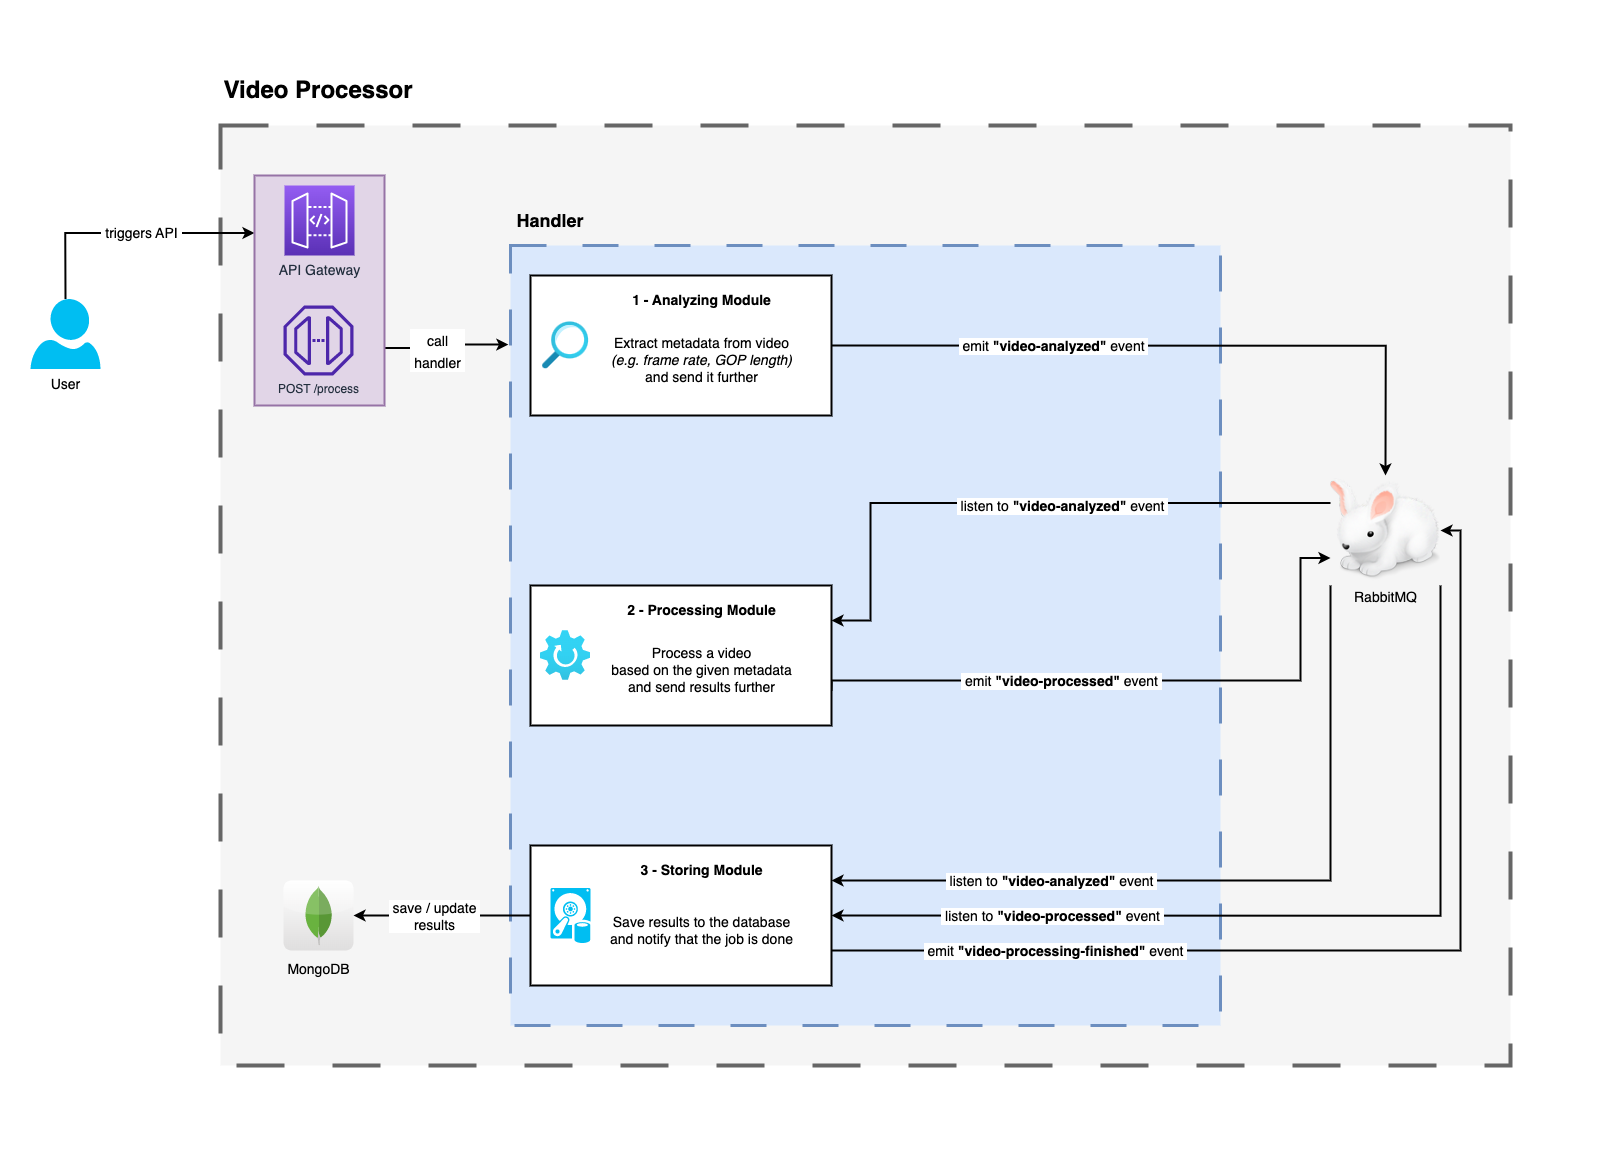
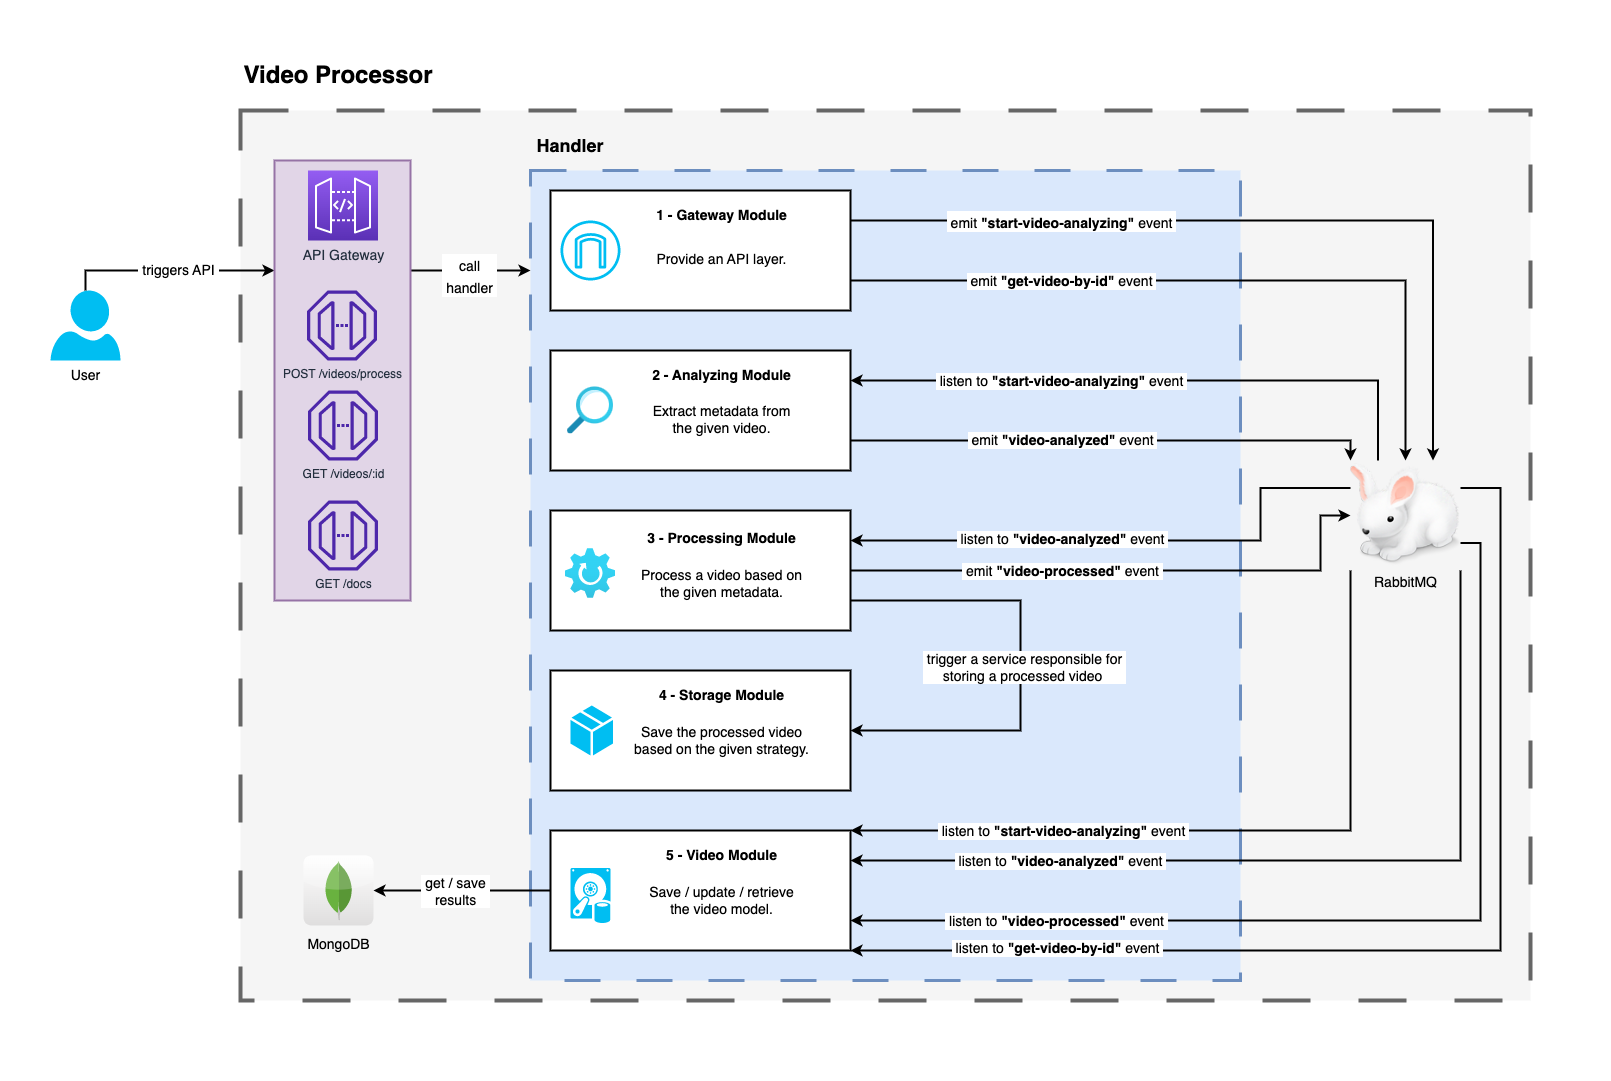
feat: update docs

diff --git a/README.md b/README.md
@@ -6,6 +6,9 @@ A simple video project created to refresh skills in Nest.js, RabbitMQ, and Mongo
 
 - [Description](#description)
 - [Usage](#usage)
+    - [Prerequisites](#prerequisites)
+    - [Running the application](#running)
+    - [Tests](#tests)
 - [Architecture](#architecture)
     - [C1 - Context](#context)
     - [C2 - Container](#container)
@@ -16,15 +19,43 @@ A simple video project created to refresh skills in Nest.js, RabbitMQ, and Mongo
 
 This API should be able to perform a basic processing of a given video.
 Firstly, all necessary metadata should be extracted from this video.
-Then, some parameters used for processing should be generated and passed further.
-Eventually, based on the metadata and transcoding parameters, video should be processed.
-The results should be saved in a database.
+Then, based on the metadata a video should be processed.
+Eventually, the processed video should be saved based on a configured strategy (e.g. locally).
+Finally, the database should contain information about processing status and video data.
 
 <p align="right">(<a href="#top">back to top</a>)</p>
 
 ## Usage <a id="usage"></a>
 
-Run the following script to start the application:
+### Prerequisites <a id="prerequisites"></a>
+
+Before using the app you need make sure you have installed FFmpeg on your machine:
+
+```
+brew install ffmpeg
+```
+
+Also, make sure you have installed [Docker](https://www.docker.com/products/docker-desktop/).
+
+<p align="right">(<a href="#top">back to top</a>)</p>
+
+### Running the application <a id="running"></a>
+
+To start the application:
+
+1. Run docker in the project's root directory
+
+```
+docker-compose up
+```
+
+2. Install dependencies:
+
+```
+npm i --legacy-peer-deps
+```
+
+3. Start the app:
 
 ```
 npm start
@@ -32,9 +63,15 @@ npm start
 
 Here's a list of supported endpoints:
 
-- #### POST _/videos/process_
-- #### GET _/videos/:id_
-- #### GET _/docs_
+| Method | URI               | Description                       |
+|--------|-------------------|-----------------------------------|
+| POST   | _/videos/process_ | inits video processing            |
+| GET    | _/videos/:id_     | retrieves video with the given id |
+| GET    | _/docs_           | shows OpenAPI documentation       |
+
+<p align="right">(<a href="#top">back to top</a>)</p>
+
+### Tests <a id="tests"></a>
 
 Tests can be run via the following script:
 
@@ -67,7 +104,7 @@ but it can be easily replaced with another event.
 After a handler is called, RabbitMQ topics are used to orchestrate its work.
 Thanks to them, we are able to create a modular structure
 (which is going to be described in the next section)
-and react on some topic in order to save or update results in MongoDB.
+and react on some topics in order to save or update results in MongoDB.
 
 <img src="./docs/architecture/C2.png" alt="C2">
 
@@ -75,27 +112,39 @@ and react on some topic in order to save or update results in MongoDB.
 
 ### C3 - Component <a id="component"></a>
 
-The application consists of 3 major modules:
+The application consists of 5 major modules:
 
-1. Analyzing Module
-2. Processing Module
-3. Storing Module
+1. Gateway Module
+2. Analyzing Module
+3. Processing Module
+4. Storage Module
+5. Video Module
 
 Let's briefly describe each of them.
 
+#### Gateway Module
+
+This module represents an API gateway layer containing the HTTP endpoints which can be used to use the app.
+This module starts the chain of operations performed to process the video.
+
 #### Analyzing Module
 
-This module starts the chain of operations performed to process the video.
-It is responsible for extracting the metadata and sending it to the Processing Module
-by sending a message on a right topic.
+It is responsible for extracting the metadata from the given video.
+Also, it should notify the Processing Module that it can start its work. 
 
 #### Processing Module
 
-After the video analyzing is done, this module starts its work.
-It transcodes a video using FFmpeg based on some example parameters.
-Once its job is done, it is responsible for notifying the Storing Module that the results are ready.
+It processes a video by applying some filters (scaling and padding the video) using FFmpeg.
+Also, it triggers the right storage strategy responsible for saving the processed video.
+Once its job is done, it notifies the Video Module that the video is processed.
 
-#### Storing Module
+#### Storage Module
+
+This module is a layer responsible for storing the results of video processing.
+Thanks to it, we can implement a set of strategies used for storing results
+(e.g. storing the results locally, in S3, database, or any other source). 
+
+#### Video Module
 
 The aim of this module is to encapsulate the logic connected with the database.
 Thanks to it, we can easily replace the chosen database, and plug another one in seconds.
